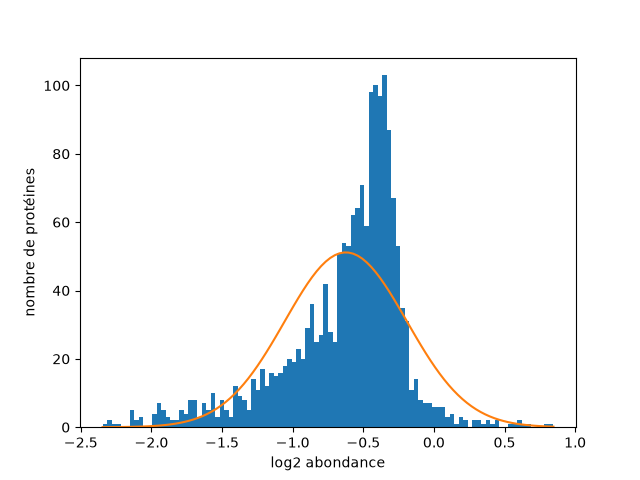
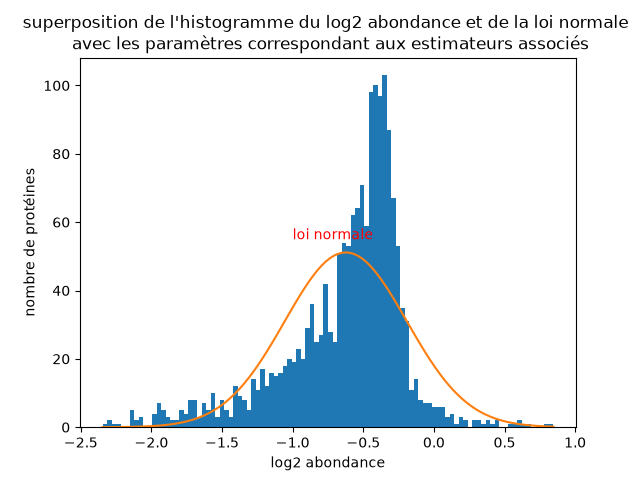
data

Changed region(s): [[0.0312, 0.0312, 1.0, 0.125], [0.4375, 0.4688, 0.5938, 0.5]]

diff --git a/README.md b/README.md
@@ -299,7 +299,8 @@ Sont condidérées comme surabondantes les proteines remplissant ces deux critè
 * $\text{Log}_2(\text{abundance ratio})\gt\mu%2B\sigma$
 * $\text{p-value}<0.001$
 
-![Volcano plot + quadrant à inserez ici](histogram_log2FC.png "Title")
+
+![](volcano_plot.png)
 
 ### Analyse Fonctionelle de pathway
 
